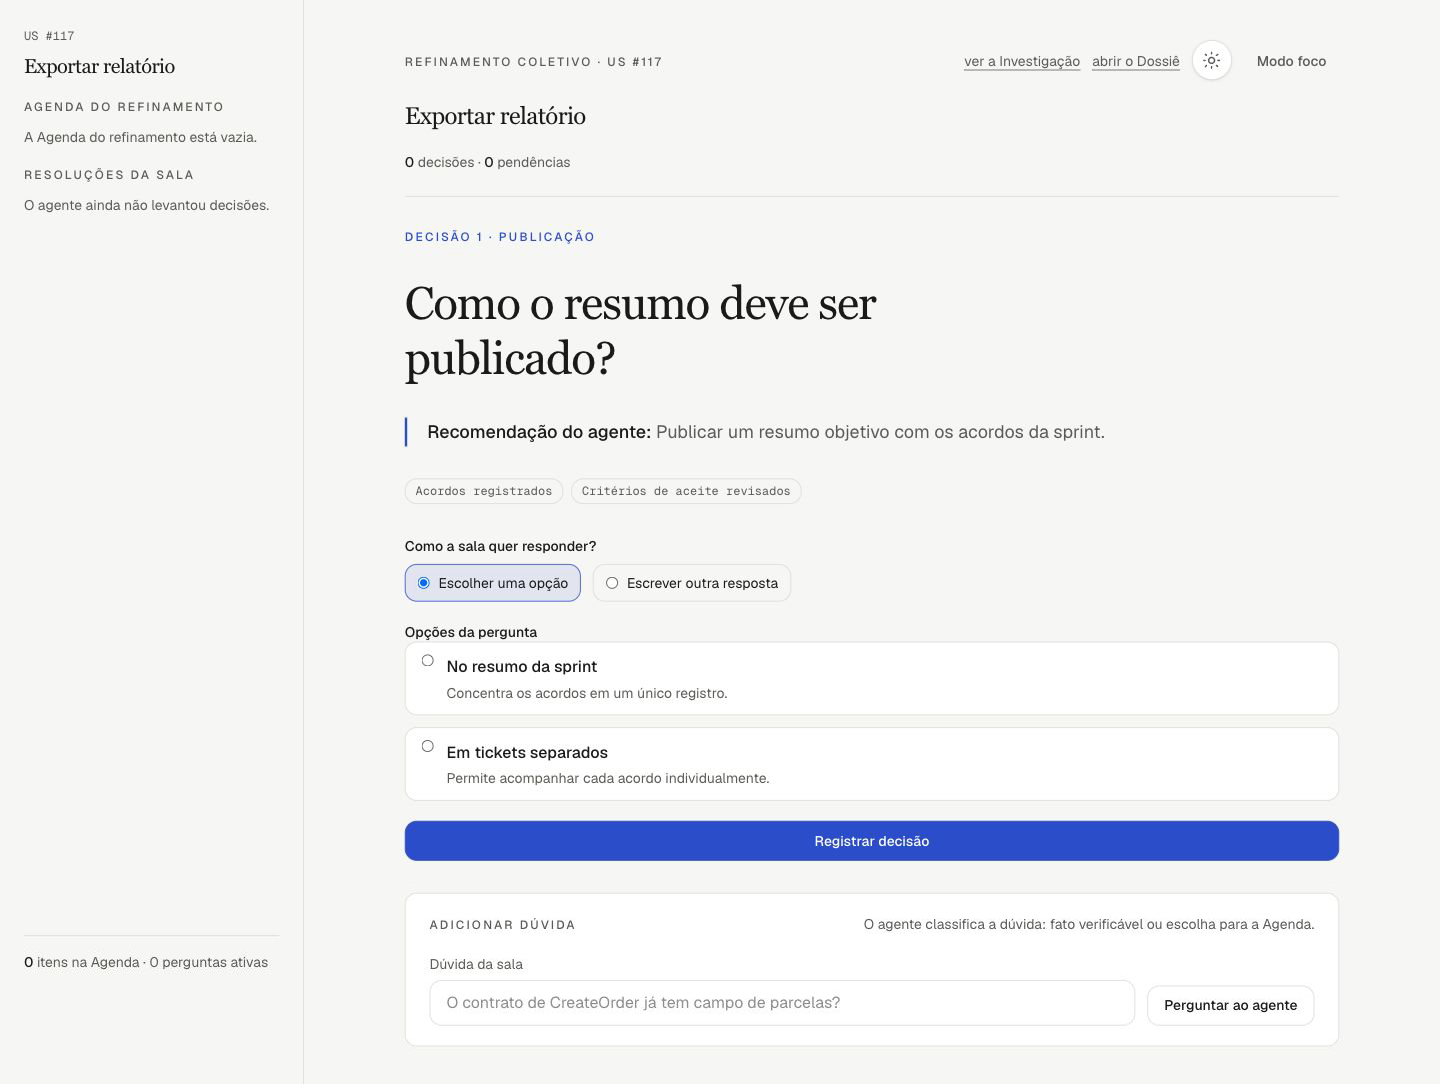
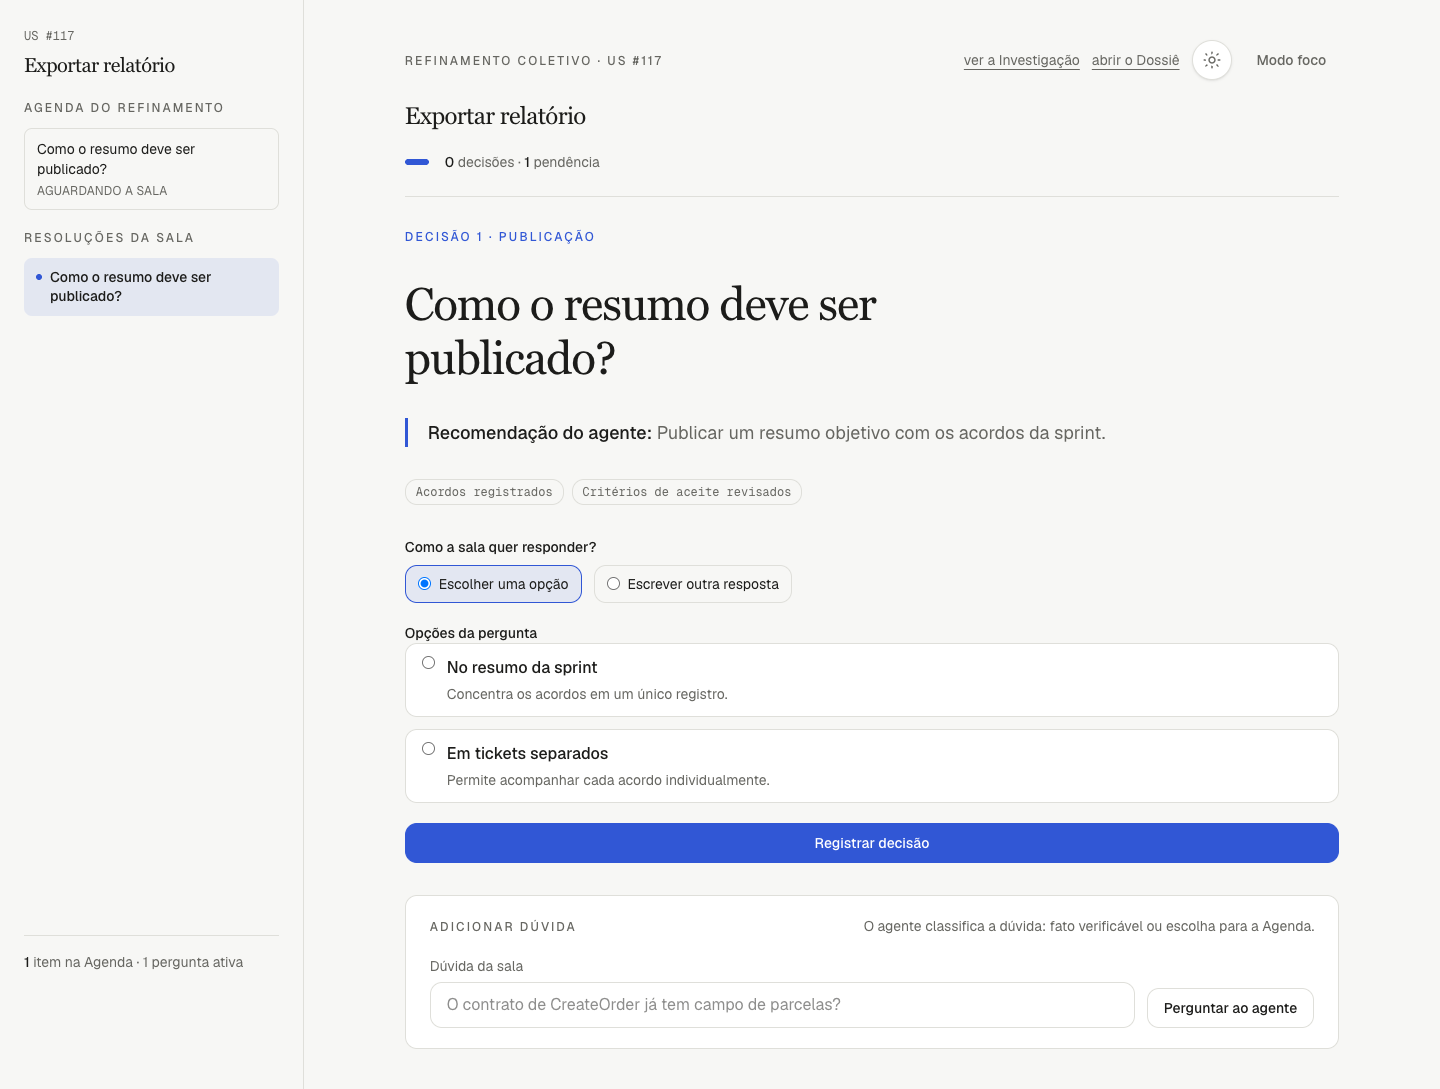
fix(docs): align palco demo state

diff --git a/apps/web/src/app/__dev/ui/fixtures.ts b/apps/web/src/app/__dev/ui/fixtures.ts
@@ -30,6 +30,30 @@ const DECISION = {
 const SPEC_MARKDOWN = "# Spec da US #117 — Exportar relatório\n";
 const TICKETS_MARKDOWN = "## Implementar exportação\n";
 
+const ACTIVE_QUESTION = {
+  questionSeq: 1,
+  id: "question-1",
+  agendaItemId: "agenda-1",
+  source: "agent",
+  header: "Publicação",
+  question: "Como o resumo deve ser publicado?",
+  recommendation: "Publicar um resumo objetivo com os acordos da sprint.",
+  evidence: ["Acordos registrados", "Critérios de aceite revisados"],
+  options: [
+    { label: "No resumo da sprint", description: "Concentra os acordos em um único registro." },
+    { label: "Em tickets separados", description: "Permite acompanhar cada acordo individualmente." },
+  ],
+  allowFreeText: true,
+} as const satisfies PalcoState["pendingQuestions"][number];
+
+const ACTIVE_AGENDA_ITEM = {
+  id: ACTIVE_QUESTION.agendaItemId,
+  question: ACTIVE_QUESTION.question,
+  createdAt: 1,
+  updatedAt: 1,
+  status: "aguardando-sala",
+} as const satisfies PalcoState["agenda"][number];
+
 export const PICKER_STORIES = [
   {
     ...STORY,
@@ -99,31 +123,17 @@ export const PALCO_STATE = {
   story: STORY,
   refinement: { phase: "refinando", revision: 1 },
   completionProposal: null,
-  agenda: [],
+  agenda: [ACTIVE_AGENDA_ITEM],
   decisionCount: 0,
   decisions: [],
-  pendingQuestions: [],
+  pendingQuestions: [ACTIVE_QUESTION],
   lastDecision: null,
   consultation: null,
   pending: [],
   live: true,
   current: {
     phase: "perguntando",
-    question: {
-      questionSeq: 1,
-      id: "question-1",
-      agendaItemId: "agenda-1",
-      source: "agent",
-      header: "Publicação",
-      question: "Como o resumo deve ser publicado?",
-      recommendation: "Publicar um resumo objetivo com os acordos da sprint.",
-      evidence: ["Acordos registrados", "Critérios de aceite revisados"],
-      options: [
-        { label: "No resumo da sprint", description: "Concentra os acordos em um único registro." },
-        { label: "Em tickets separados", description: "Permite acompanhar cada acordo individualmente." },
-      ],
-      allowFreeText: true,
-    },
+    question: ACTIVE_QUESTION,
   },
 } as const satisfies PalcoState;
 

diff --git a/apps/web/src/app/__dev/ui/gallery.test.tsx b/apps/web/src/app/__dev/ui/gallery.test.tsx
@@ -36,6 +36,8 @@ it("should render an active Palco decision for the public gallery", () => {
   const html = renderToStaticMarkup(<UiGalleryView view="palco" action={inertAction} />);
 
   expect(html).toContain("Como o resumo deve ser publicado?");
+  expect((html.match(/Como o resumo deve ser publicado\?/g) ?? []).length).toBe(3);
+  expect(html).toContain("1 pergunta ativa");
   expect(html).toContain("Recomendação do agente:");
   expect(html).toContain("Publicar um resumo objetivo com os acordos da sprint.");
   expect(html).toContain("Registrar decisão");

diff --git a/docs/superpowers/specs/2026-08-20-public-readme-and-license-design.md b/docs/superpowers/specs/2026-08-20-public-readme-and-license-design.md
@@ -1,6 +1,6 @@
 # README público, imagens e licença — Design
 
-**Data:** 2026-08-20  
+**Data:** 2026-08-20
 **Status:** aprovado para planejamento
 
 ## Objetivo
